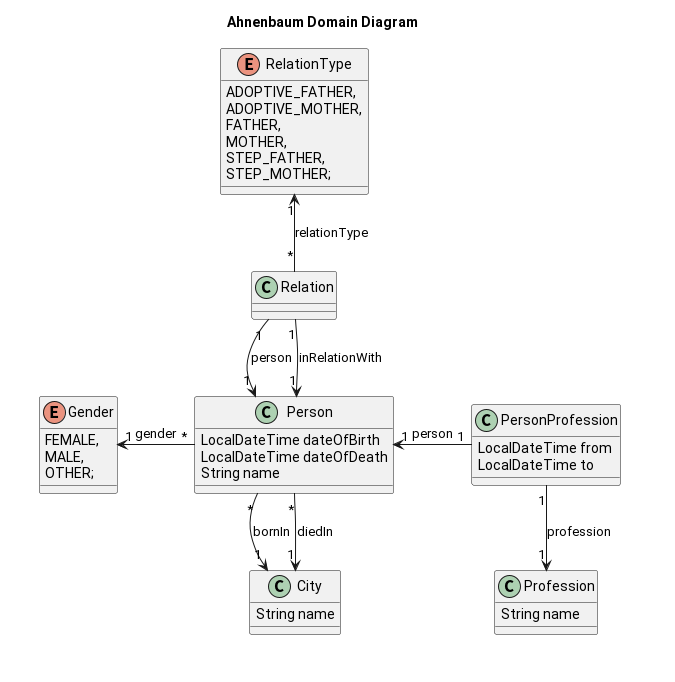
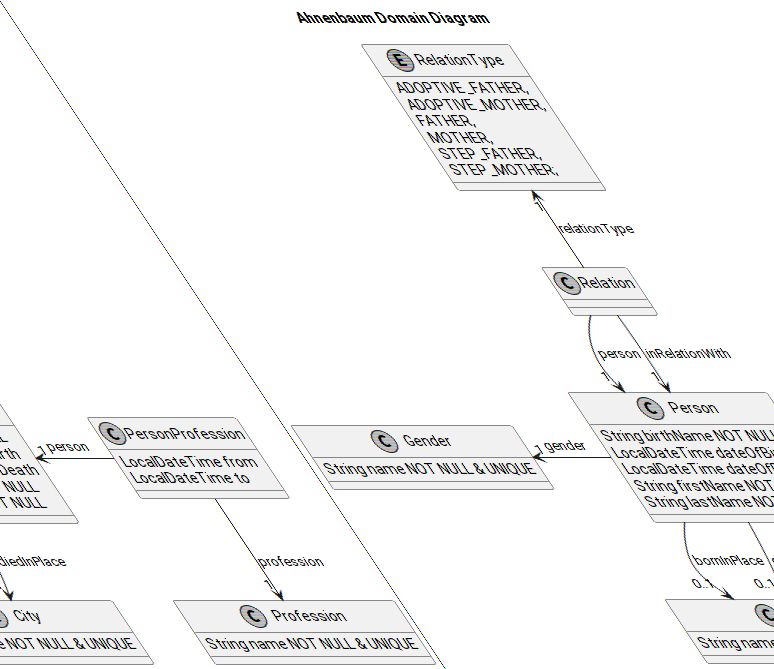
Added some DBO's and a repository for Person. Updated documentation.

diff --git a/service/src/main/java/de/ollie/ahnenbaum/persistence/entity/PersonDBO.java b/service/src/main/java/de/ollie/ahnenbaum/persistence/entity/PersonDBO.java
@@ -1,0 +1,45 @@
+package de.ollie.ahnenbaum.persistence.entity;
+
+import jakarta.persistence.Column;
+import jakarta.persistence.Entity;
+import jakarta.persistence.Id;
+import jakarta.persistence.Table;
+import java.util.UUID;
+import lombok.Data;
+import lombok.Generated;
+import lombok.experimental.Accessors;
+
+@Accessors(chain = true)
+@Data
+@Entity(name = "Person")
+@Generated
+@Table(name = "PERSON")
+public class PersonDBO {
+
+	@Id
+	private UUID id;
+
+	@Column(name = "BIRTH_NAME")
+	private String birthName;
+
+	@Column(name = "BORN_IN_PLACE")
+	private CityDBO bornInPlace;
+
+	@Column(name = "DATE_OF_BIRTH")
+	private String dateOfBirth;
+
+	@Column(name = "DATE_OF_DEATH")
+	private String dateOfDeath;
+
+	@Column(name = "DIED_IN_PLACE")
+	private CityDBO diedInPlace;
+
+	@Column(name = "FIRST_NAME", nullable = false)
+	private String firstName;
+
+	@Column(name = "GENDER", nullable = false)
+	private GenderDBO gender;
+
+	@Column(name = "LAST_NAME", nullable = false)
+	private String lastName;
+}

diff --git a/service/src/main/java/de/ollie/ahnenbaum/persistence/repository/GenderDBORepository.java b/service/src/main/java/de/ollie/ahnenbaum/persistence/repository/GenderDBORepository.java
@@ -1,0 +1,10 @@
+package de.ollie.ahnenbaum.persistence.repository;
+
+import de.ollie.ahnenbaum.persistence.entity.GenderDBO;
+import java.util.Optional;
+import java.util.UUID;
+import org.springframework.data.jpa.repository.JpaRepository;
+
+public interface GenderDBORepository extends JpaRepository<GenderDBO, UUID> {
+	Optional<GenderDBO> findByName(String name);
+}

diff --git a/service/src/main/java/de/ollie/ahnenbaum/persistence/repository/PersonDBORepository.java b/service/src/main/java/de/ollie/ahnenbaum/persistence/repository/PersonDBORepository.java
@@ -1,0 +1,10 @@
+package de.ollie.ahnenbaum.persistence.repository;
+
+import de.ollie.ahnenbaum.persistence.entity.PersonDBO;
+import java.util.List;
+import java.util.UUID;
+import org.springframework.data.jpa.repository.JpaRepository;
+
+public interface PersonDBORepository extends JpaRepository<PersonDBO, UUID> {
+	List<PersonDBO> findByName(String name);
+}

diff --git a/service/src/main/java/de/ollie/ahnenbaum/persistence/entity/GenderDBO.java b/service/src/main/java/de/ollie/ahnenbaum/persistence/entity/GenderDBO.java
@@ -11,10 +11,10 @@ import lombok.experimental.Accessors;
 
 @Accessors(chain = true)
 @Data
-@Entity(name = "City")
+@Entity(name = "Gender")
 @Generated
-@Table(name = "CITY")
-public class CityDBO {
+@Table(name = "GENDER")
+public class GenderDBO {
 
 	@Id
 	private UUID id;

diff --git a/service/src/main/java/de/ollie/ahnenbaum/persistence/entity/ProfessionDBO.java b/service/src/main/java/de/ollie/ahnenbaum/persistence/entity/ProfessionDBO.java
@@ -19,6 +19,6 @@ public class ProfessionDBO {
 	@Id
 	private UUID id;
 
-	@Column(name = "NAME", unique = true)
+	@Column(name = "NAME", nullable = false, unique = true)
 	private String name;
 }
